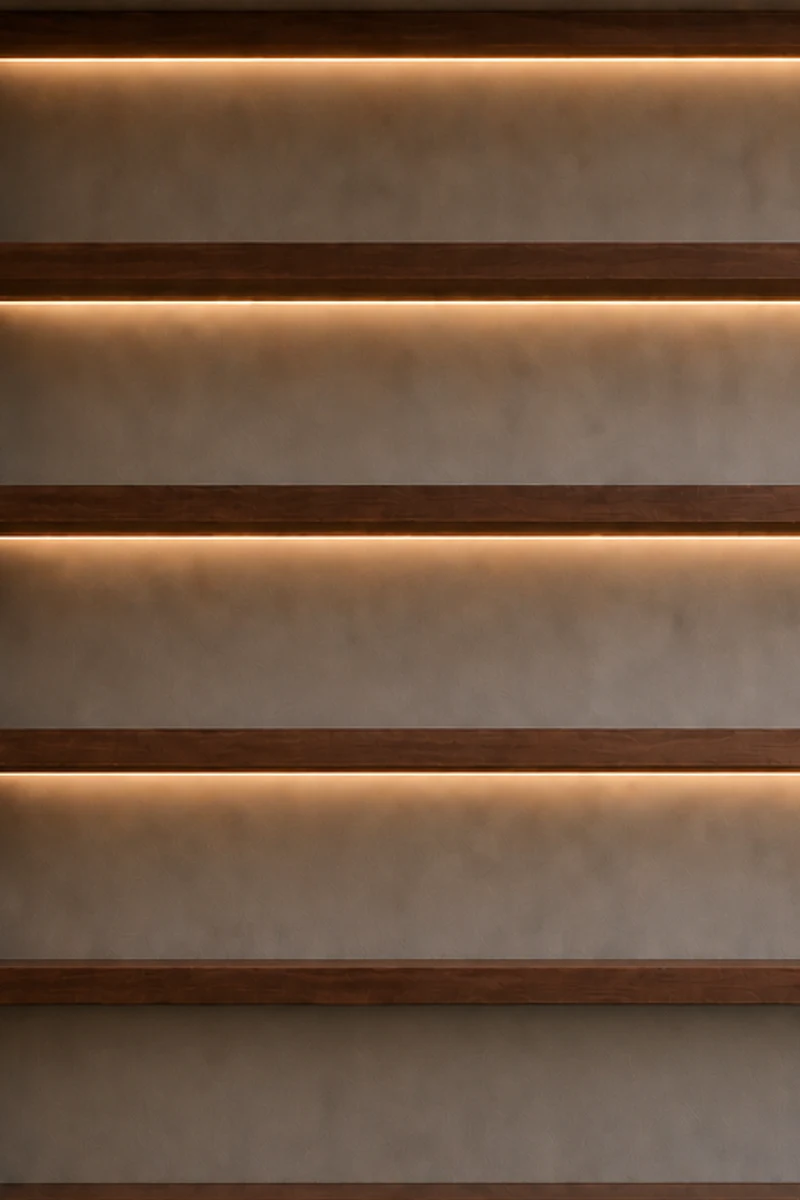
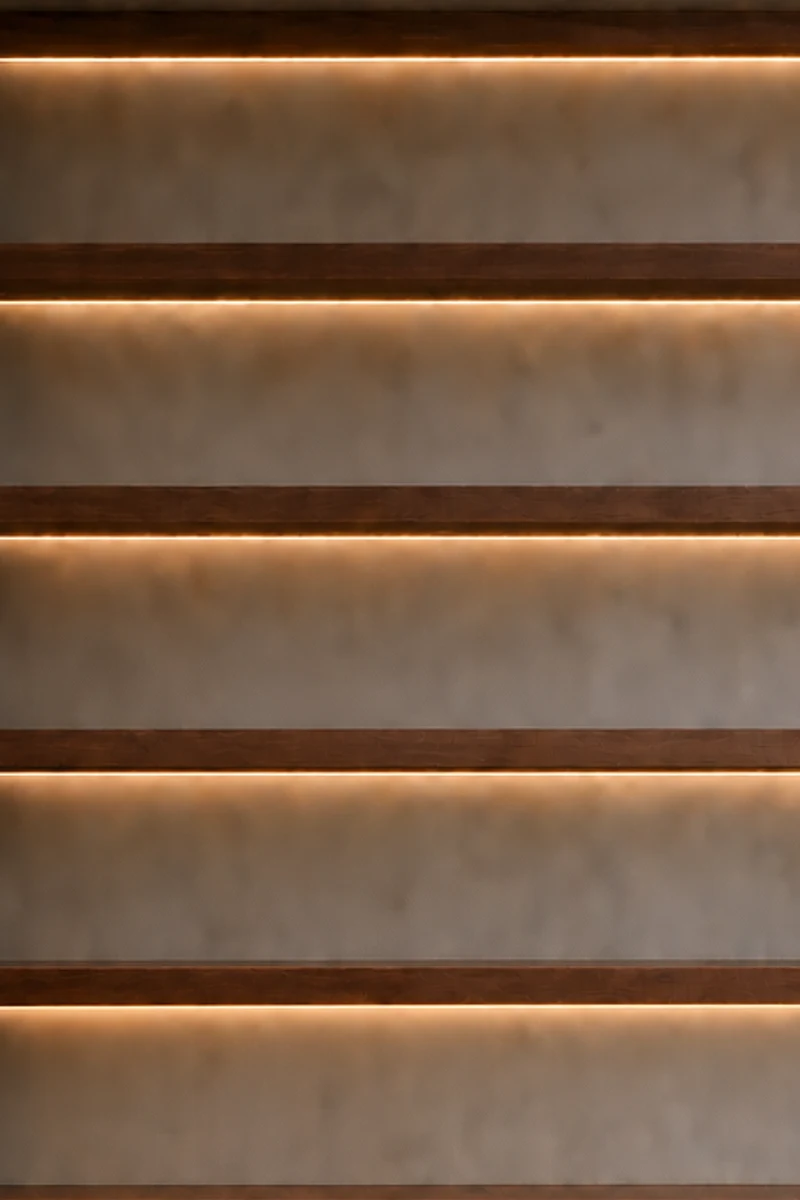
Fix catalogue sofa depth and shelf five lighting

Changed region(s): [[0.0, 0.8325, 1.0, 1.0], [0.8438, 0.0308, 0.875, 0.0617], [0.0938, 0.6167, 0.125, 0.6475]]

diff --git a/src/catalogue-bookshelf.css b/src/catalogue-bookshelf.css
@@ -1591,7 +1591,33 @@
   box-shadow: 0 3px 8px 1px var(--shelf-glow);
 }
 
+.catalogue-shelf[data-shelf='5']::before {
+  position: absolute;
+  z-index: 3;
+  top: -7px;
+  right: 5%;
+  left: 5%;
+  height: 38%;
+  content: '';
+  pointer-events: none;
+  background: radial-gradient(ellipse 72% 100% at 50% 0%, var(--shelf-wash), transparent 74%);
+  filter: blur(5px);
+  opacity: .78;
+}
+
+.catalogue-shelf[data-shelf='5'] .catalogue-shelf__led {
+  top: auto;
+  bottom: -18px;
+  height: 2px;
+  opacity: .72;
+  box-shadow: 0 4px 11px 2px var(--shelf-glow);
+}
+
 .catalogue-shelf[data-power='off'] .catalogue-shelf__led {
+  opacity: 0;
+}
+
+.catalogue-shelf[data-shelf='5'][data-power='off']::before {
   opacity: 0;
 }
 
